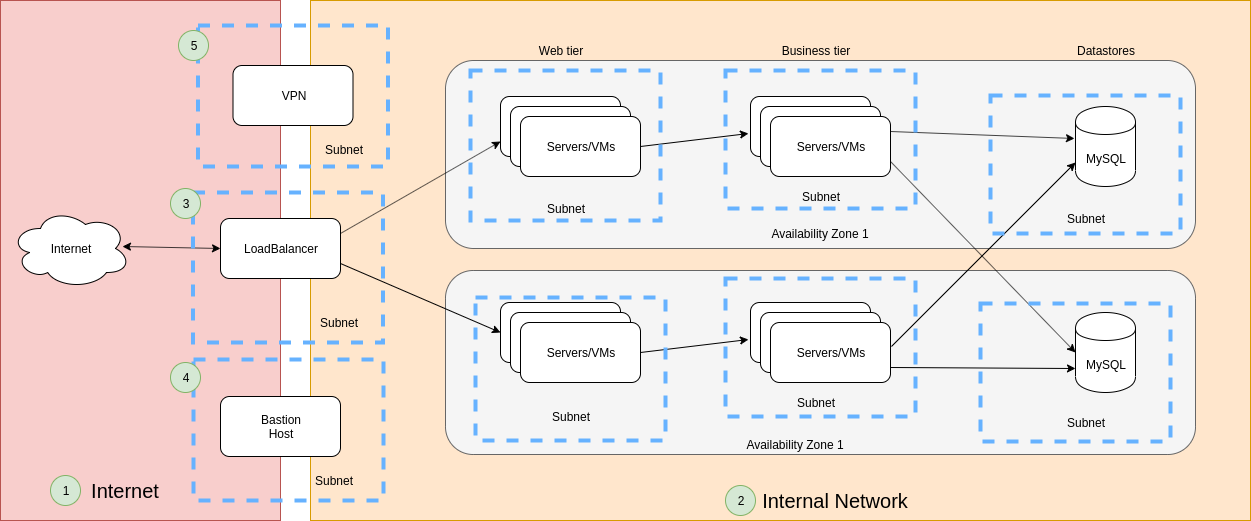
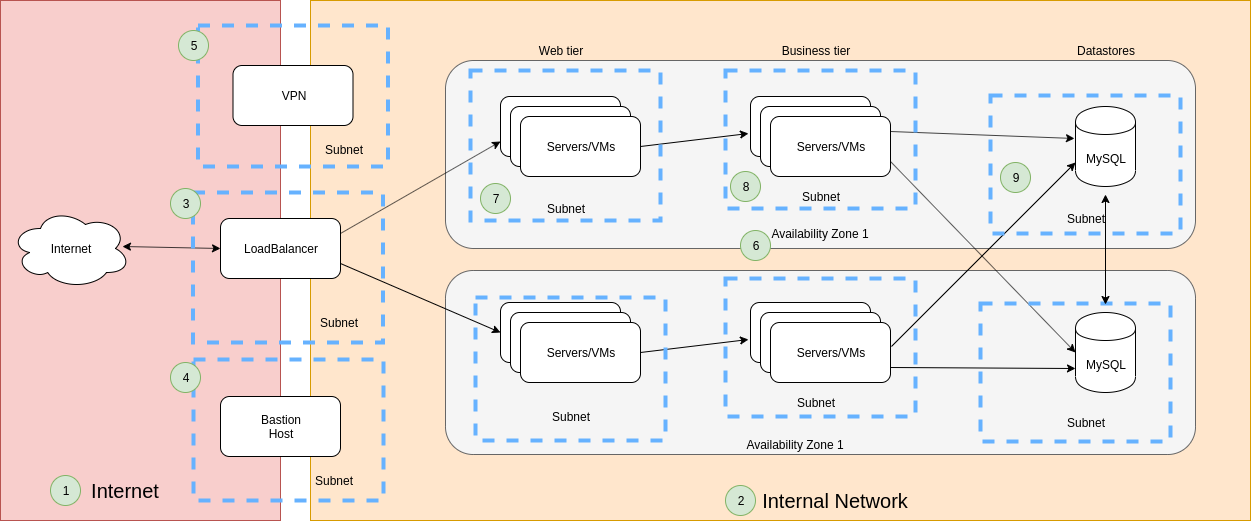
Updating n-tier arch

diff --git a/docs/kubernetes-security/README.md b/docs/kubernetes-security/README.md
@@ -45,6 +45,33 @@ public IP address and an internal IP address spanning the two networks.  It has 
 usually appliances which has limited functionality and are hardend for security.  However, this is again just software and over the years, there has been numerous
 remotely exploitable vulnerabilities against top VPN vendors.
 
+### [6] Availability zones
+In this particular example there are two availability zones.  These are usually physical segments of the network where each availability zone is isolated in a sense where a zone can have it's own power, racks, routers, switches, and servers.  This means that if there is a physical problem or a configuration issue on these set of items, it will only affect this zone.  The other zone(s) should be still good.
+
+In this setup, we are using 2 zones and the load balancer is pointed to both zones and we have the same servers one in each zone for high availability and
+redundancy.
+
+### [7] Web tier subnet
+The web tier holds the externally facing web servers.  This is the only subnet that the load balancers are pointed to and to specific servers sitting on specific
+set of ports.
+* This subnet has access control rules (ACLs) to allow traffic from the load balancer to it's servers in this subnet
+* Ther are no other inbound traffic that is allowed into this subnet (except for management traffic)
+
+### [8] Business tier
+The business tier is just one or more set(s) of subnets and server(s) that does backend work.  These items are not exposed externally that has an external load balancer pointed to it.  This set of workload provides support functionality to the application.  This could be supporting the web tier to retrieve some information or it could be
+a set of batch jobs that runs on some interval to crunch data.  
+
+The picture depicts one subnet in each zone but it could be a bunch of different subnets with different types of workload(s) living in it.  The main point
+here is that these set of servers are isolated from the internet and has no direct connections.  Further more, it can have only limited connections inbound
+to it.  If this set of servers only serves the web tier, then inbound traffic should only be able to come from the web tier.  If there are additional business
+tier that does a batch job and it doesnt need any incoming connections and all it needs is to go and fetch data from the database, it might not allow any
+incomming connections to it (except for management traffic).
+
+### [9] Datastore
+The datastore tier is one or more set of subnets and servers that provide data storage functionality.  These can be databases, object stores, NoSQL clusters, etc.
+Since the datastores is where a lot of valuable information is kept, it is usually isolated off and monitored heavily.  It has tight controls on what can connect
+to it.
+
 ## Control plane
 
 ![the stack](/docs/kubernetes-security/images/kubernetes-controle-plane.png)
